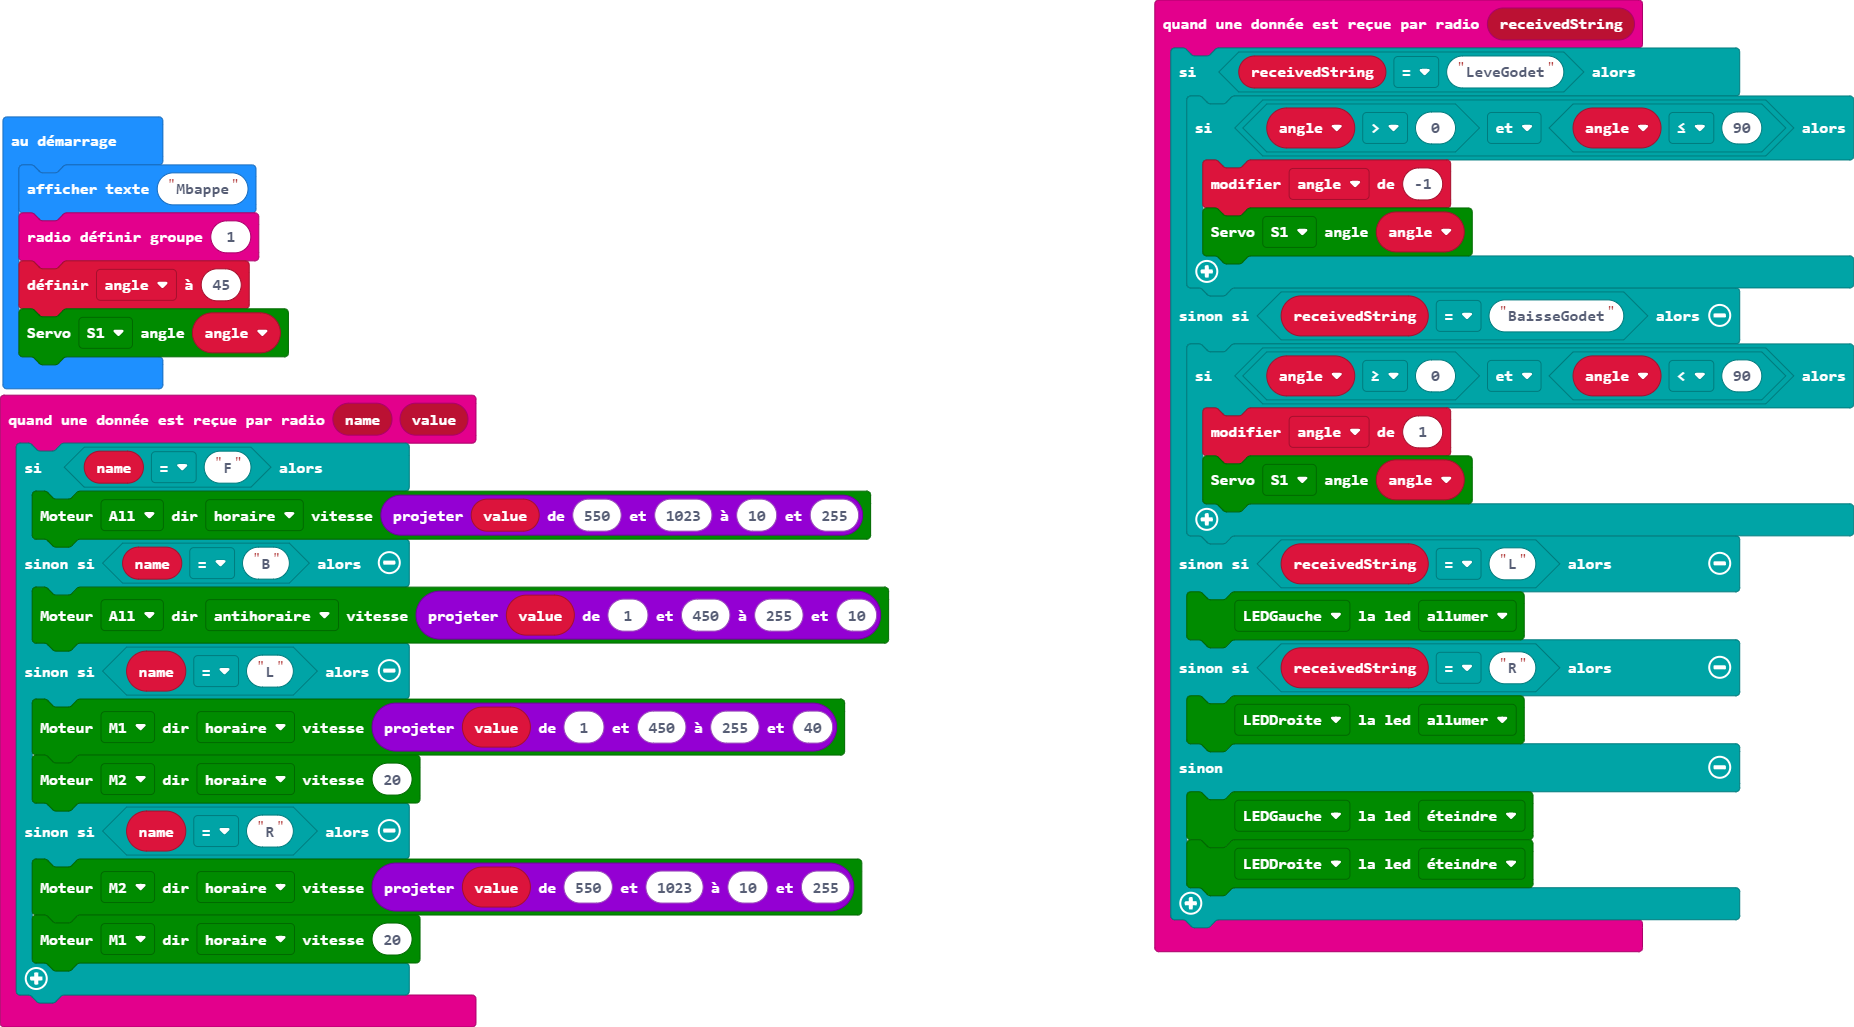
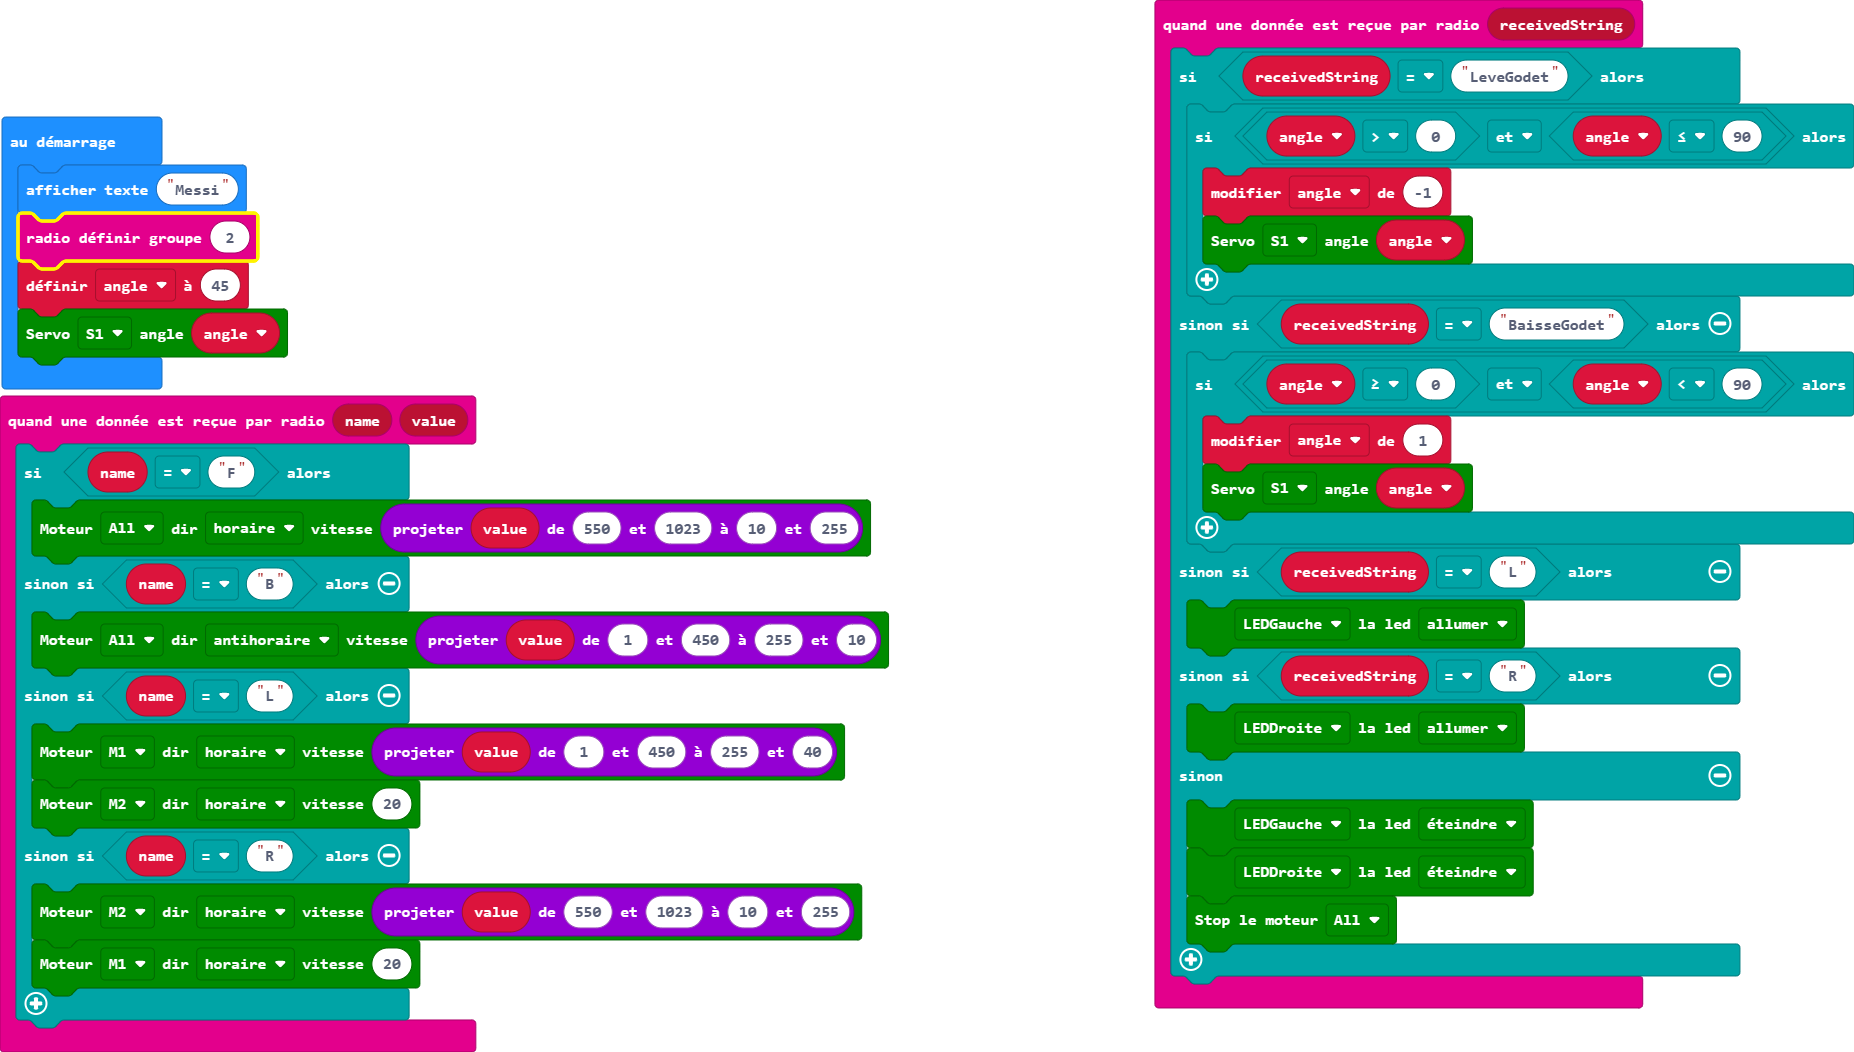
Mise à jour main.blocks, main.ts

diff --git a/main.ts b/main.ts
@@ -16,6 +16,7 @@ radio.onReceivedString(function (receivedString) {
     } else {
         maqueen.writeLED(maqueen.LED.LEDLeft, maqueen.LEDswitch.turnOff)
         maqueen.writeLED(maqueen.LED.LEDRight, maqueen.LEDswitch.turnOff)
+        maqueen.motorStop(maqueen.Motors.All)
     }
 })
 radio.onReceivedValue(function (name, value) {
@@ -32,7 +33,7 @@ radio.onReceivedValue(function (name, value) {
     }
 })
 let angle = 0
-basic.showString("Mbappe")
-radio.setGroup(1)
+basic.showString("Messi")
+radio.setGroup(2)
 angle = 45
 maqueen.servoRun(maqueen.Servos.S1, angle)
